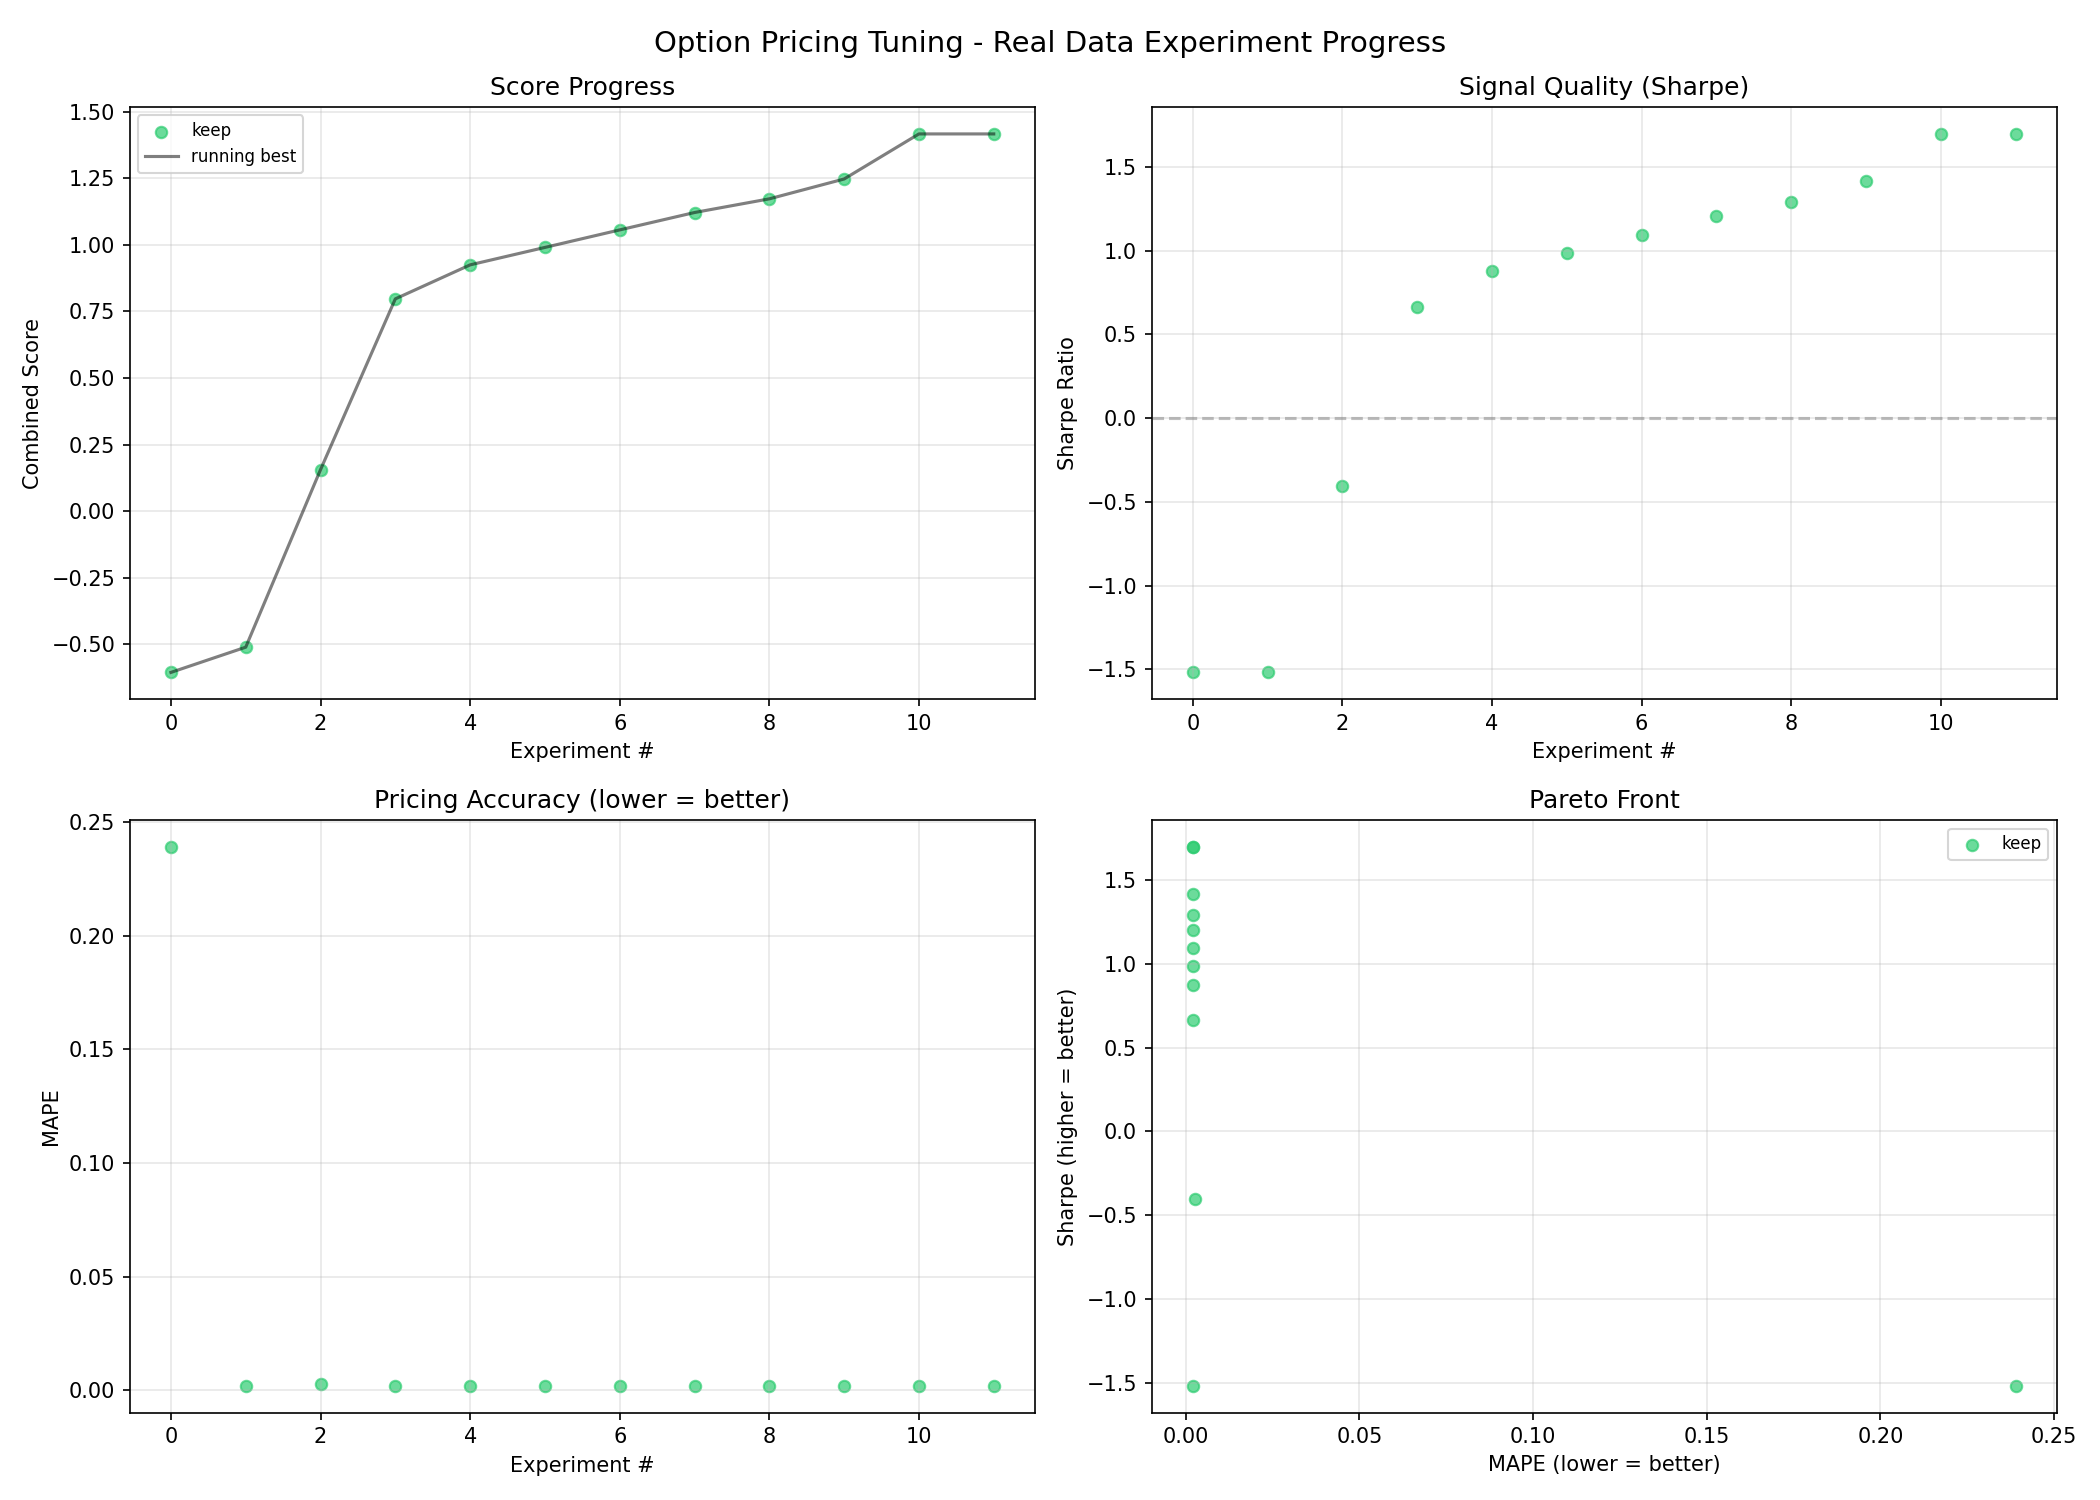
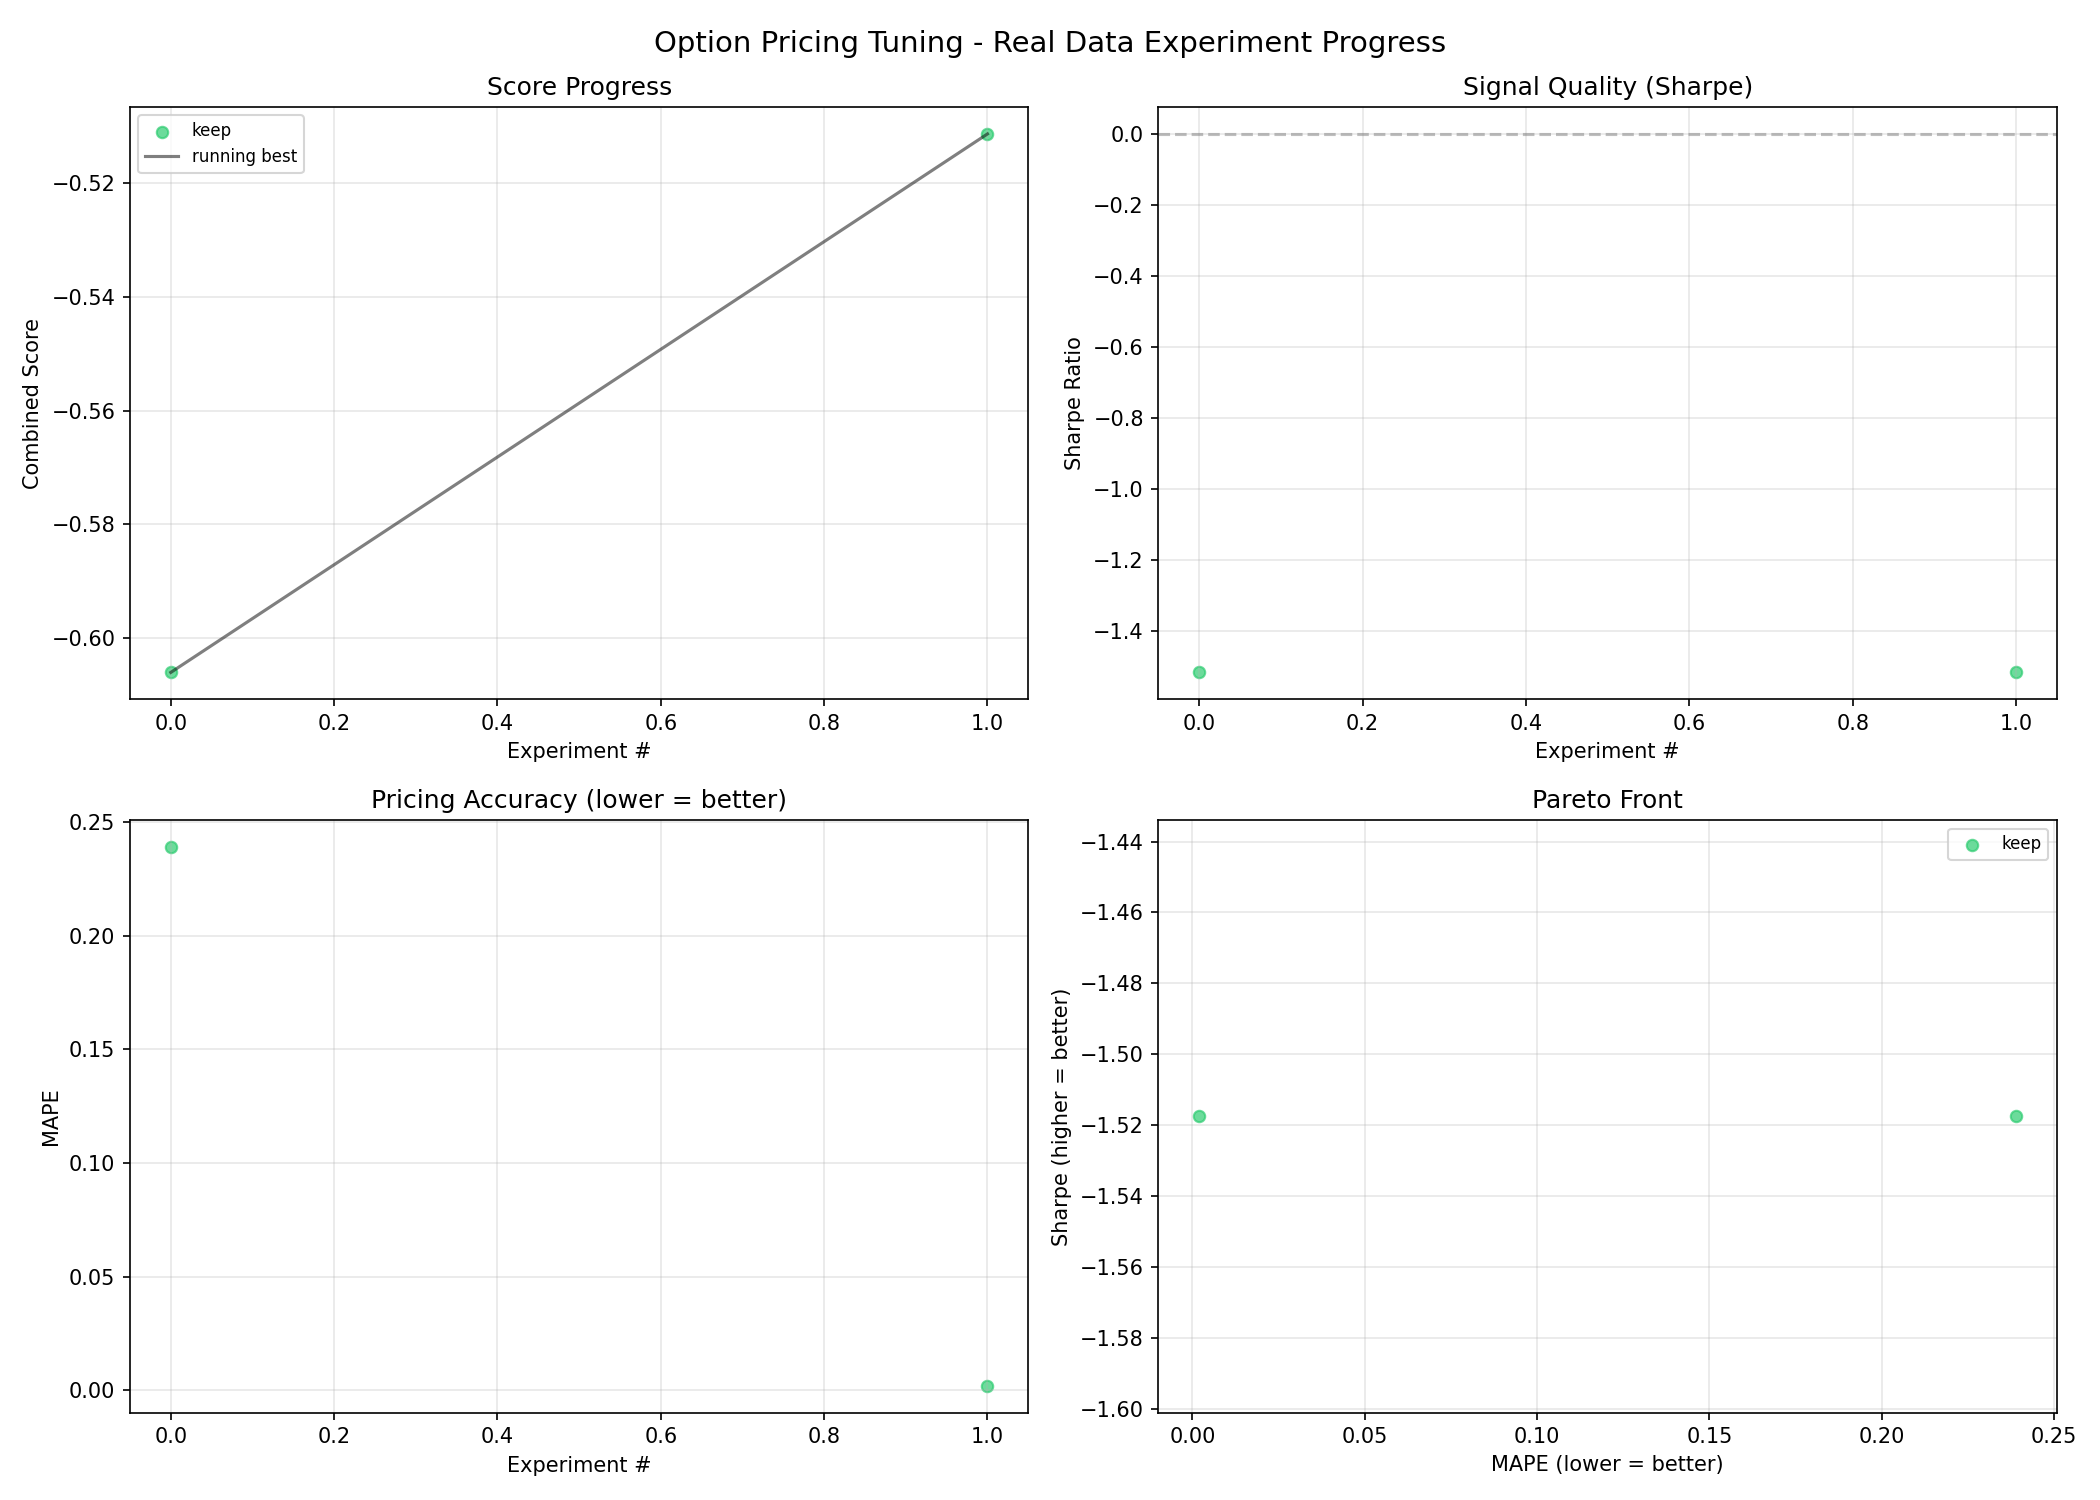
Update results after exp 1

diff --git a/README.md b/README.md
@@ -9,12 +9,12 @@ signals using **real stock market data** from Yahoo Finance.
 
 | Metric | Value |
 |---|---|
-| Combined Score | 1.4167 |
-| Sharpe Ratio | 1.6959 |
+| Combined Score | -0.5113 |
+| Sharpe Ratio | -1.5175 |
 | MAPE | 0.002026 |
-| Win Rate | 90.9% |
-| Trades | 11 |
-| Experiments | 12 (12 kept) |
+| Win Rate | 42.1% |
+| Trades | 515 |
+| Experiments | 2 (2 kept) |
 
 ## How It Works
 
@@ -30,17 +30,6 @@ An AI agent (Claude) runs an experiment loop:
 - **20 real US stocks** from Yahoo Finance (~2 years of daily prices)
 - Synthetic options generated on real prices with realistic vol surfaces
 - CFD simulation with Trading 212 costs (0.1% spread, ~3% annual overnight financing)
-
-## Files
-
-| File | Purpose |
-|---|---|
-| `price.py` | **The only file the agent edits.** Pricing model + signal generator. |
-| `prepare.py` | Data pipeline (real prices + synthetic options), evaluation, CFD simulator. |
-| `program.md` | Agent instructions - the autonomous experiment protocol. |
-| `analysis.py` | Post-run visualization of experiment progress. |
-| `results.tsv` | Experiment log (tab-separated). |
-| `progress.png` | Auto-generated experiment progress chart. |
 
 ## Scoring
 
